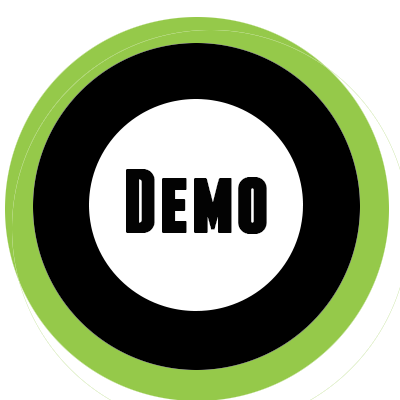
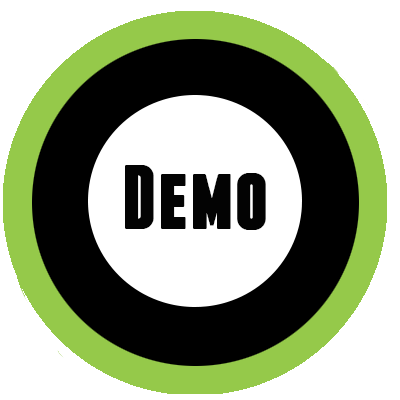
Fix demo button

diff --git a/static/css/styles.css b/static/css/styles.css
@@ -149,7 +149,7 @@ h3 {
   color: #fff;
   height: 600px;
   margin: 0;
-  padding: 80px 0 260px 0;
+  padding: 200px 0 260px 0;
   background-size: cover;
 }
 
@@ -236,8 +236,8 @@ h3 {
 
 .login-button-bottom {
   display: block;
-  max-width: 200px;
-  max-height: 200px;
+  max-width: 300px;
+  max-height: 300px;
   margin-left: 100px;
   margin-right: 100px;
   cursor: pointer;
